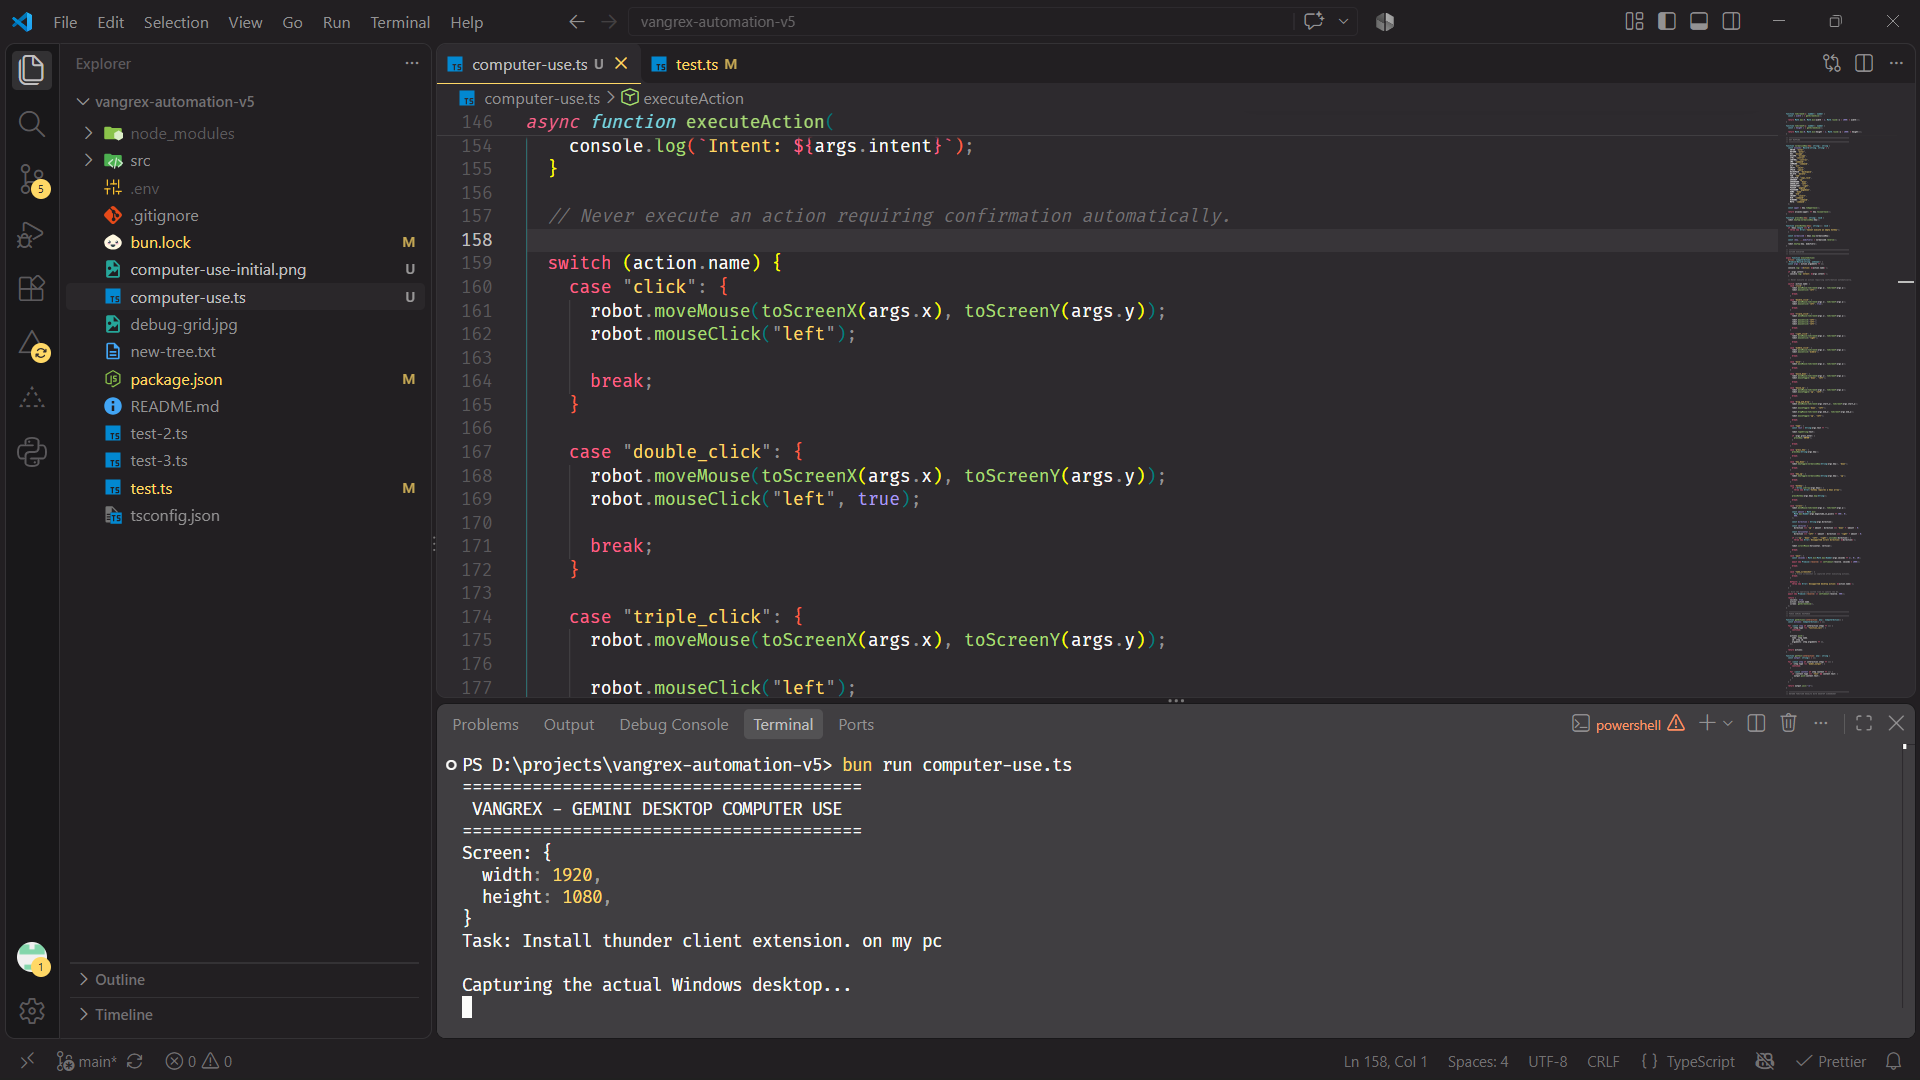
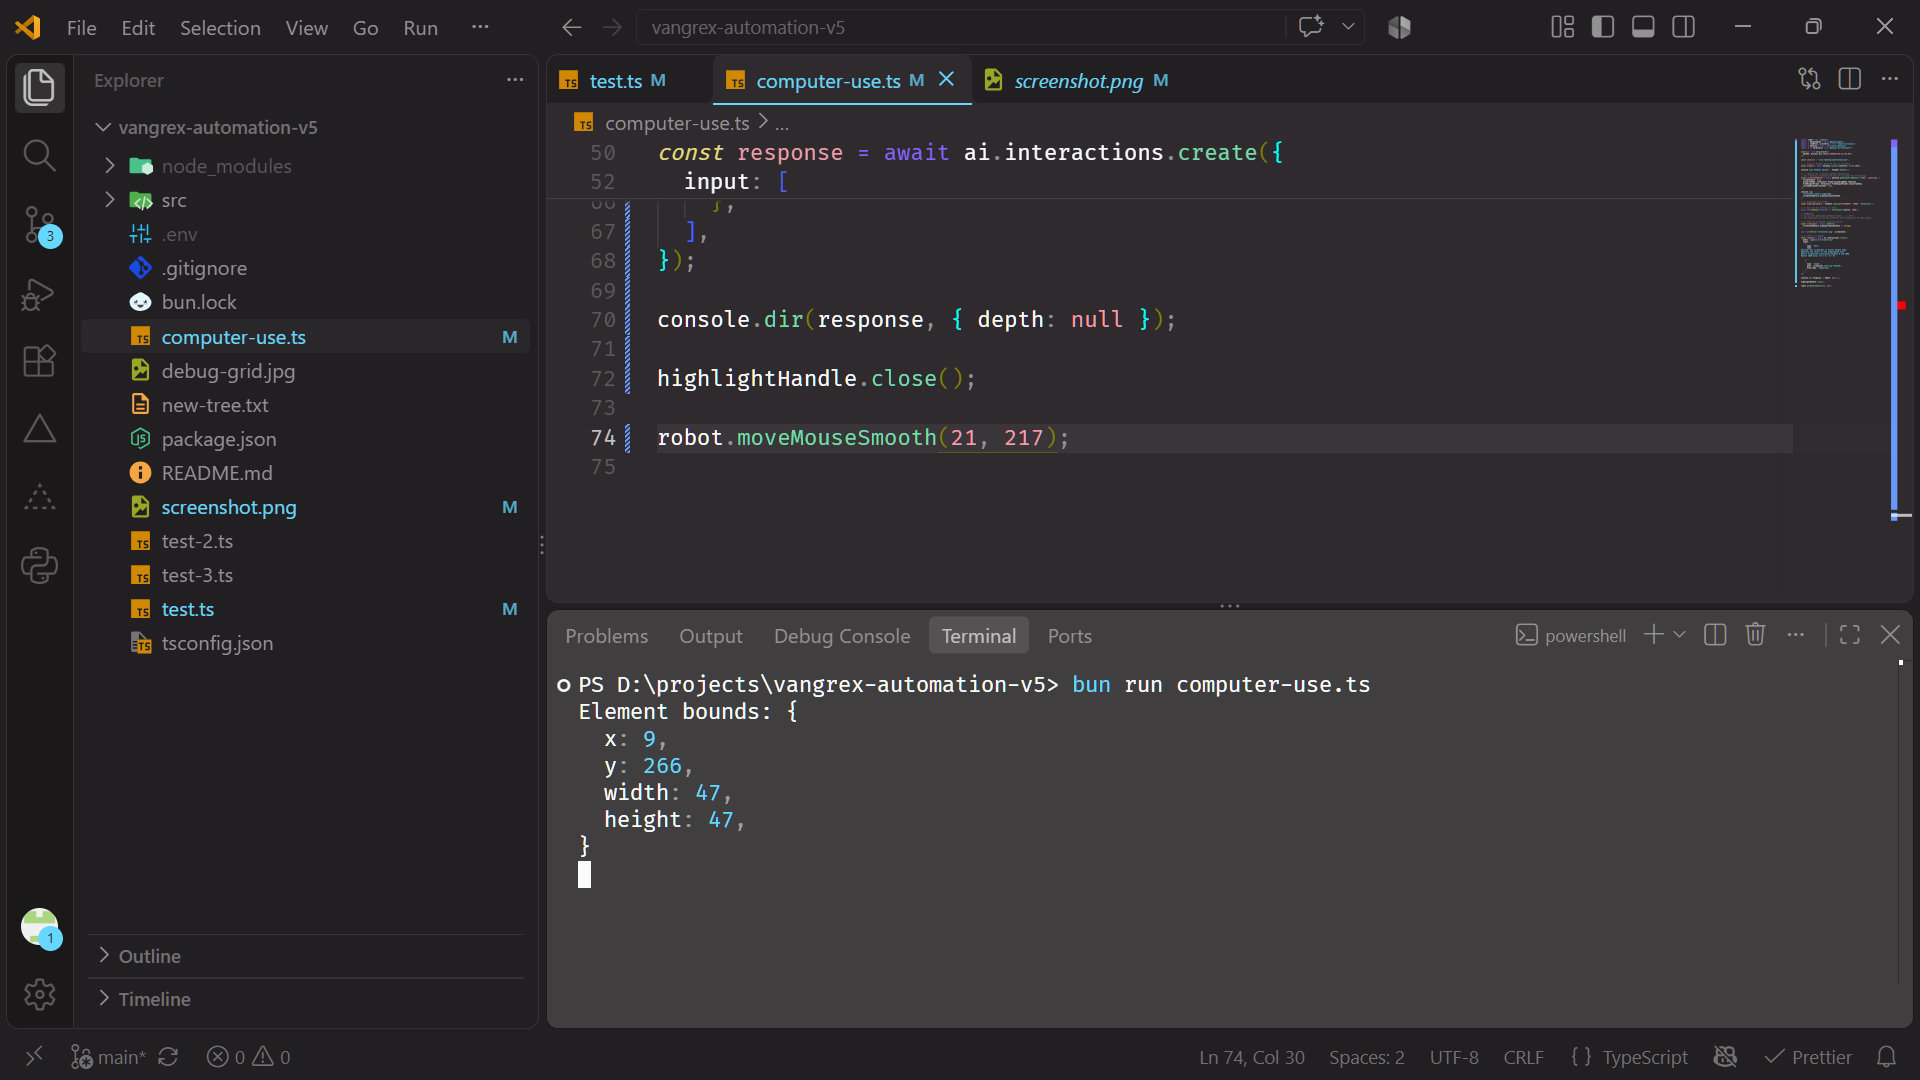
modified:   computer-use.ts 	modified:   screenshot.png 	modified:   test.ts

diff --git a/computer-use.ts b/computer-use.ts
@@ -1,54 +1,74 @@
-// import { GoogleGenAI } from "@google/genai";
-// import { readFile } from "node:fs/promises";
-
-// const ai = new GoogleGenAI({
-//   apiKey: process.env.GOOGLE_GENERATIVE_AI_API_KEY!,
-// });
-
-// const screenshot = await readFile("screenshot.png");
-
-// const response = await ai.interactions.create({
-//   model: "gemini-3.5-flash-lite",
-//   input: [
-//     {
-//       type: "text",
-//       text: `
-// Analyze this screenshot of Visual Studio Code.
-
-// Identify the icons in the activity bar on the left.
-// For each icon, provide:
-// - Name
-// - Approximate center coordinates (x, y)
-// - Confidence
-
-// Return the results as JSON.
-//       `,
-//     },
-//     {
-//       type: "image",
-//       data: screenshot.toString("base64"),
-//       mime_type: "image/png",
-//     },
-//   ],
-// });
-
-// console.dir(response, { depth: null });
-
 import robot from "robotjs";
+import { GoogleGenAI } from "@google/genai";
+import { readFile, writeFile } from "node:fs/promises";
+import { desktop } from "./src/utils/desktop";
+import * as Terminator from "@mediar-ai/terminator";
 
-const screen = robot.getScreenSize();
+const ai = new GoogleGenAI({
+  apiKey: process.env.GOOGLE_GENERATIVE_AI_API_KEY!,
+});
 
-function denormalizeX(x: number, screenWidth: number) {
-  // Convert normalized x coordinate (0-1000) to actual pixel coordinate.
-  return Math.floor((x / 1000) * screenWidth);
-}
+const selector = "role:TabItem|name:Extensions";
 
-function denormalizeY(y: number, screenHeight: number) {
-  // Convert normalized y coordinate (0-1000) to actual pixel coordinate.
-  return Math.floor((y / 1000) * screenHeight);
-}
+// 1. Find the element while VS Code is available.
+const element = await desktop.locator(selector).first(2000);
 
-const actualX = denormalizeX(267, screen.width);
-const actualY = denormalizeY(18, screen.height);
+console.log("Element bounds:", element.bounds());
 
-robot.moveMouseSmooth(actualY, actualX);
+// 2. Capture the screenshot BEFORE highlighting.
+// Use a desktop screenshot API here if you need the full desktop.
+const screenshotBefore = await desktop.getWindowTreeResult("Code", undefined, {
+  formatOutput: true,
+  propertyMode: Terminator.PropertyLoadingMode.Complete,
+  treeOutputFormat: Terminator.TreeOutputFormat.ClusteredYaml,
+  includeWindowScreenshot: true,
+});
+
+console.log(
+  "Screenshot before highlight:",
+  screenshotBefore.windowScreenshotPath,
+);
+
+// 3. Highlight the element.
+const highlightHandle = element.highlight(0x0000ff, 10000, "Extensions");
+
+// 4. Wait for the overlay to render.
+await new Promise((resolve) => setTimeout(resolve, 1000));
+
+// IMPORTANT:
+// Do not call getWindowTreeResult("Code", ...) here.
+// The highlight overlay may interfere with finding the VS Code window.
+
+// 5. Read the screenshot captured earlier.
+const screenshot = await readFile(
+  screenshotBefore.windowScreenshotPath as string,
+);
+
+await writeFile("screenshot.png", screenshot);
+
+// 6. Send it to Gemini.
+const response = await ai.interactions.create({
+  model: "gemini-3.5-flash-lite",
+  input: [
+    {
+      type: "text",
+      text: `
+Analyze this screenshot of Visual Studio Code.
+Identify the center of the highlighted area.
+Return normalized coordinates between 0 and 1000.
+Return JSON only: {"x": 0, "y": 0}
+`,
+    },
+    {
+      type: "image",
+      data: screenshot.toString("base64"),
+      mime_type: "image/png",
+    },
+  ],
+});
+
+console.dir(response, { depth: null });
+
+highlightHandle.close();
+
+robot.moveMouseSmooth(21, 217);

diff --git a/test.ts b/test.ts
@@ -5,7 +5,7 @@ import { geminiModel } from "./src/model";
 import z from "zod";
 import robot from "robotjs";
 
-for (let step = 1; step <= 4; step++) {
+for (let step = 1; step <= 3; step++) {
   console.log(`\n--- Step ${step}/3 ---`);
 
   const { formatted } = desktop.getWindowTreeResult("Code", undefined, {
@@ -18,33 +18,53 @@ for (let step = 1; step <= 4; step++) {
 
   const result = await generateText({
     model: geminiModel,
-    prompt: "UnInstall thunder client extension",
-    instructions: `UI Elements: ${formatted}. Give the name and role of the element. Don't include shortcuts. Always use Pascal casing for role.`,
+    prompt: `Install thunder client.`,
+    instructions: `UI Elements: ${formatted}. Give the name and role of the element. Don't include shortcuts. Always use Pascal casing for role. Also give the proper step intent. If the element is not present in the ui tree, don't guess. If element does not have bounds, or many elements have same role and name, return the appropriate listitem name or other things. We can fetch the bounds with it. Understand ui and take proper steps. Shortest path.`,
     output: Output.object({
       schema: z.object({
+        intent: z.string(),
         role: z.string(),
         name: z.string(),
+
+        action: z.discriminatedUnion("type", [
+          z.object({
+            requiresAction: z.boolean(),
+            type: z.literal("click"),
+          }),
+          z.object({
+            requiresAction: z.boolean(),
+            type: z.literal("type"),
+            text: z.string(),
+          }),
+        ]),
       }),
     }),
   });
 
-  console.log("Target:", result.output);
+  console.log(result.output);
 
-  const selector = `role:${result.output.role}|name:${result.output.name}`;
+  if (result.output.action.requiresAction) {
+    const selector = `role:${result.output.role} && text:${result.output.name}`;
+    const app = await desktop.getCurrentApplication();
+    const element = await app.locator(selector).first(1000);
+    const { x, y, width, height } = element.bounds();
 
-  const element = await desktop.locator(selector).first(1000);
+    const xPercentage = 50;
+    const yPercentage = 50;
 
-  const { x, y, width, height } = element.bounds();
-
-  const xPercentage = 50;
-  const yPercentage = 50;
-
-  const targetX = Math.round(x + (width * xPercentage) / 100);
-  const targetY = Math.round(y + (height * yPercentage) / 100);
-
-  robot.moveMouseSmooth(targetX, targetY);
-  robot.mouseClick();
-
-  console.log("Clicked:", result.output.name);
+    const targetX = Math.round(x + (width * xPercentage) / 100);
+    const targetY = Math.round(y + (height * yPercentage) / 100);
+    switch (result.output.action.type) {
+      case "click":
+        robot.moveMouseSmooth(targetX, targetY);
+        robot.mouseClick();
+        console.log("Clicked:", result.output.name);
+        break;
+      case "type":
+        robot.moveMouseSmooth(targetX, targetY);
+        robot.mouseClick();
+        await app.typeText(result.output.action.text);
+    }
+  }
   console.log("Input tokens:", result.usage.inputTokens);
 }
